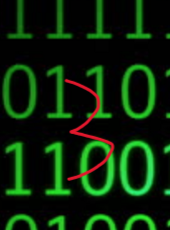
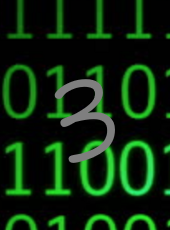
added cards

Changed region(s): [[0.3235, 0.3348, 0.6765, 0.7913]]

diff --git a/gameplayBasics.py b/gameplayBasics.py
@@ -1,6 +1,7 @@
 import os
 from tkinter import *
 import random
+import time
 from detect_color import detectColor
 class Cards:
     def __init__(self, name = "test", power = 0, type = "monster"):
@@ -73,8 +74,11 @@ class Cards:
 class Deck:
     def __init__(self):
         self.cards = []
-        for num in range(0,10):
-            self.cards.append(Cards())
+        cards = [1, 2, 3, 4, 5] 
+        #self.cards.append(Cards("test", 2, "spell"))
+        for num in range(11):
+            items = random.choice(cards)
+            self.cards.append(Cards(f"test{items}", items))
 
     @property
     def cards (self):
@@ -100,9 +104,11 @@ class Deck2(Deck):
     def __init__(self):
         super().__init__()
         self.cards = []
-        self.cards.append(Cards("test", 2, "spell"))
-        for num in range(0,10):
-            self.cards.append(Cards("test3", 3))
+        cards = [1, 2, 3, 4, 5] 
+        #self.cards.append(Cards("test", 2, "spell"))
+        for num in range(11):
+            items = random.choice(cards)
+            self.cards.append(Cards(f"test{items}", items))
 
 class MainGUI(Frame):
     def __init__(self, parent):
@@ -439,7 +445,7 @@ class MainGUI(Frame):
                     self.handManager(isP1Turn, handslot)
                 except:
                     print("no monster card here")
-                    self.display
+                    self.display.configure(text = "no monster card here")
             if(lane == 2):
                 try:
                     self.p1Lane2[0].power += self.p1hand[handslot].power
@@ -448,6 +454,7 @@ class MainGUI(Frame):
                     self.handManager(isP1Turn, handslot)
                 except:
                     print("no monster card here")
+                    self.display.configure(text = "no monster card here")
             if(lane == 3):
                 try:
                     self.p1Lane3[0].power += self.p1hand[handslot].power
@@ -456,6 +463,7 @@ class MainGUI(Frame):
                     self.handManager(isP1Turn, handslot)
                 except:
                     print("no monster card here")
+                    self.display.configure(text = "no monster card here")
         if(isP1Turn == False):
             if(lane == 1):
                 try:
@@ -465,6 +473,7 @@ class MainGUI(Frame):
                     self.handManager(isP1Turn, handslot)
                 except:
                     print("no monster card here")
+                    self.display.configure(text = "no monster card here")
             if(lane == 2):
                 try:
                     self.p2Lane2[0].power += self.p1hand[handslot].power
@@ -473,6 +482,7 @@ class MainGUI(Frame):
                     self.handManager(isP1Turn, handslot)
                 except:
                     print("no monster card here")
+                    self.display.configure(text = "no monster card here")
             if(lane == 3):
                 try:
                     self.p2Lane3[0].power += self.p1hand[handslot].power
@@ -481,19 +491,23 @@ class MainGUI(Frame):
                     self.handManager(isP1Turn, handslot)
                 except:
                     print("no monster card here")
+                    self.display.configure(text = "no monster card here")
         return ""
         
     def playLane(self,isP1Turn, handslot, lane):
         if (self.p1hand[handslot].name == "default" and isP1Turn == True):
             print("no card here")
+            self.display.configure(text = "no card here")
             return ""
         if (self.p2hand[handslot].name == "default" and isP1Turn == False):
             print("no card here")
+            self.display.configure(text = "no card here")
             return ""
         if(self.p1hand[handslot].type == "spell"):
             self.playSpell(isP1Turn, handslot, lane)
         if(self.playedMonster == True):
             print("already played a monster this turn")
+            self.display.configure(text = "already played a monster this turn")
             return ""
         self.playedMonster = True
         if(lane == 1):
@@ -563,7 +577,7 @@ class MainGUI(Frame):
         except:
             pass
         
-        print(listOfP1Power)
+        #print(listOfP1Power)
         p1Points = sum(listOfP1Power)
 
         listOfP2Power = []
@@ -580,15 +594,21 @@ class MainGUI(Frame):
         except:
             pass
         
-        print(listOfP2Power)
+        #print(listOfP2Power)
         p2Points = sum(listOfP2Power)    
             
         if(p1Points > p2Points):
             print(f"Player 1 won {p1Points} to {p2Points}")
+            self.display.configure(text = f"Player 1 won {p1Points} to {p2Points}")
+            
         elif(p1Points < p2Points):
             print(f"Player 2 won {p2Points} to {p1Points}")
+            self.display.configure(text = f"Player 2 won {p2Points} to {p1Points}")
         else:
             print("You Tied")
+            self.display.configure(text = "You Tied")
+        #self.display.configure(text=)
+        #time.sleep(2)
         self.quit()
 
 
